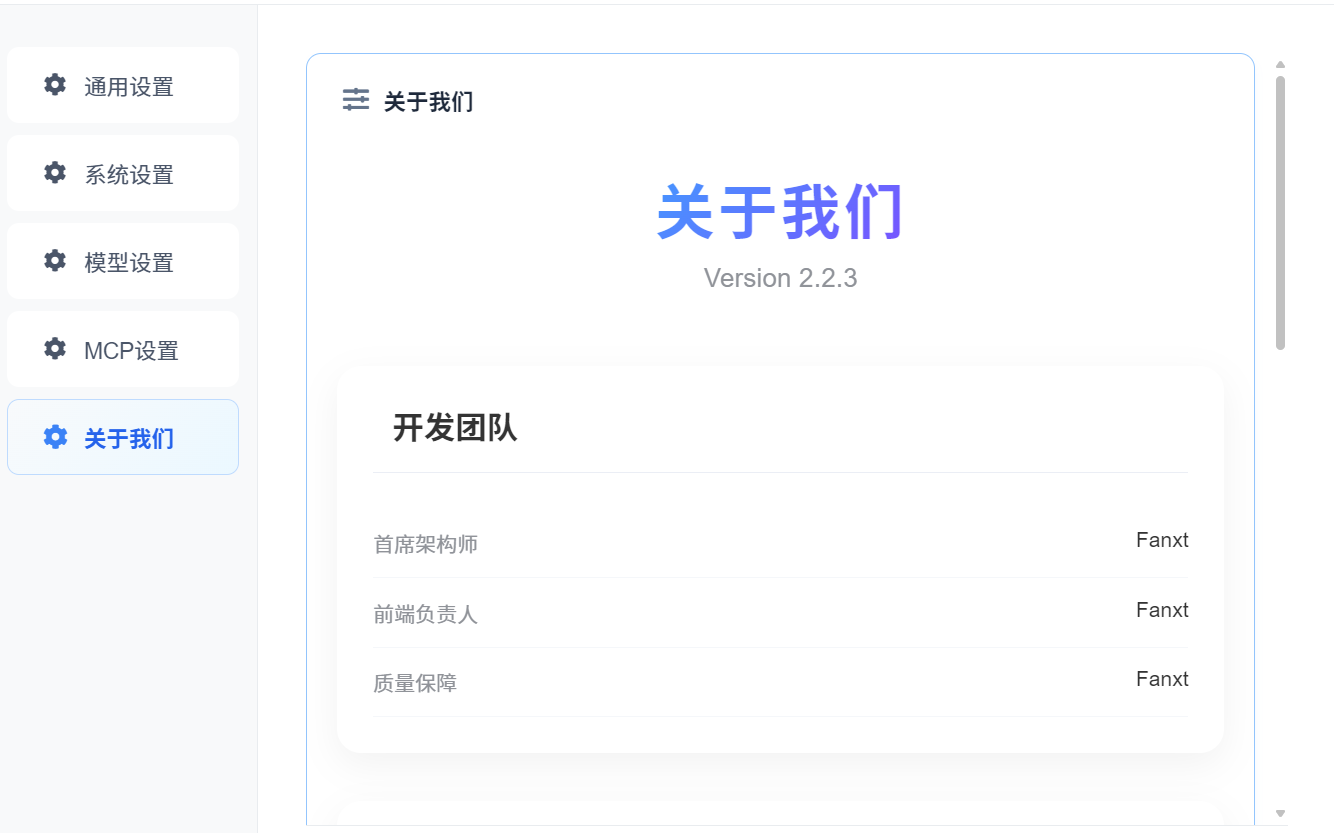
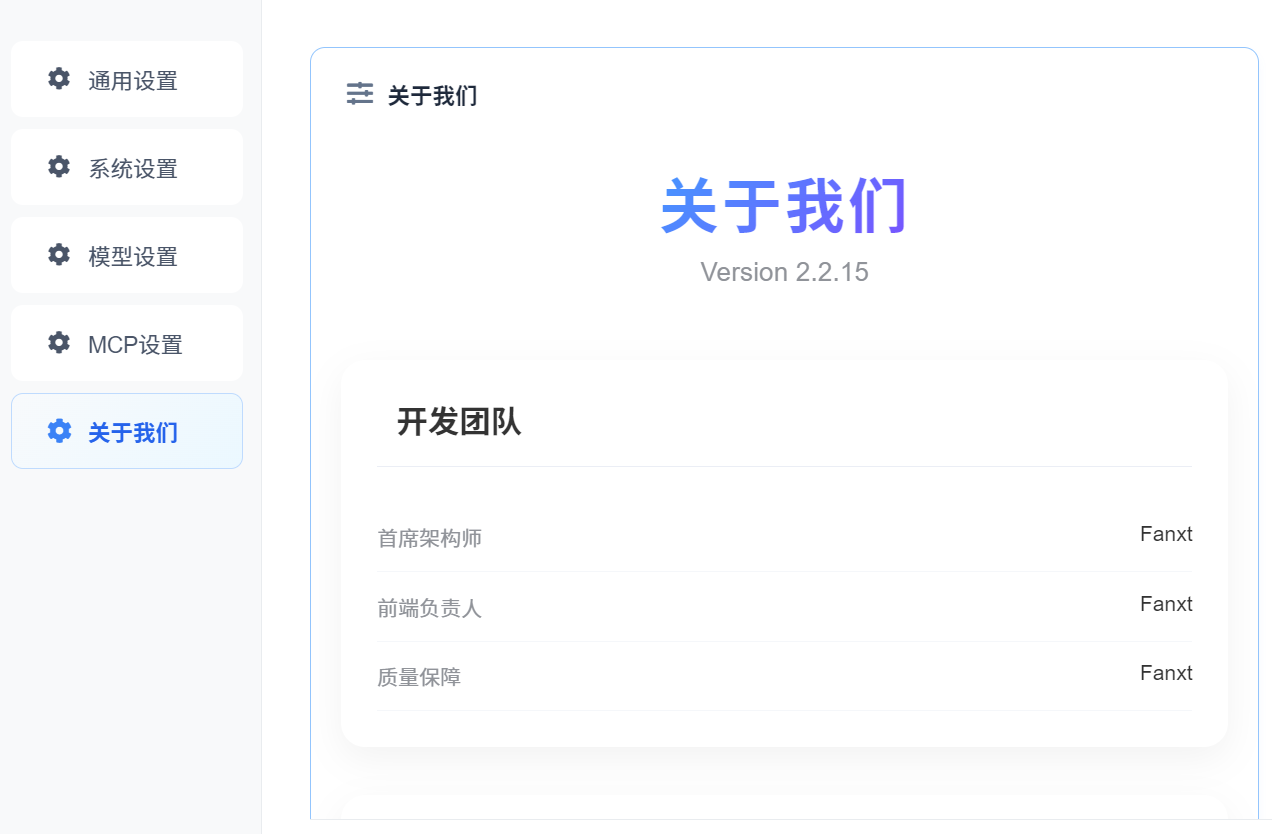
修复无法获取模型列表为空的bug，更新README.md

diff --git a/local_helper_client/src/main/resources/static/js/settings.js b/local_helper_client/src/main/resources/static/js/settings.js
@@ -238,7 +238,7 @@ document.addEventListener('DOMContentLoaded', () => {
             <div class="about-container">
                 <header class="about-header">
                     <h1 class="gradient-title">关于我们</h1>
-                    <p class="version-tag">Version 2.2.15</p>
+                    <p class="version-tag">Version 2.2.16</p>
                 </header>
                 
                 <div class="info-grid">

diff --git a/local_helper_client/src/main/java/com/ai/utils/ModelList.java b/local_helper_client/src/main/java/com/ai/utils/ModelList.java
@@ -20,7 +20,7 @@ import org.springframework.beans.factory.annotation.Value;
 import org.springframework.stereotype.Component;
 import org.springframework.web.client.RestClient;
 
-//@Component
+@Component
 public class ModelList {
 
     private static final String OLLAMA_API_URL = "http://localhost:11434/api/tags";
@@ -32,12 +32,7 @@ public class ModelList {
 
     private static RestClient restClient;
 
-    public ModelList(RestClient.Builder restClient){
-        String URL = settingsMapper.selectOne(new LambdaQueryWrapper<SettingDO>().eq(SettingDO::getItem, "Ollama服务地址")).getValue();
-        ModelList.restClient = restClient.baseUrl(URL).build();
-    }
-
-    public static List<String> getModels() {
+    public List<String> getModels() {
         List<String> models = null;
         try {
 //            models = fetchOllamaModels();
@@ -92,7 +87,10 @@ public class ModelList {
     }
 
     //获取ollama模型列表（最新方法）
-    public static List<String> listModels() {
+    public List<String> listModels() {
+        String URL = settingsMapper.selectOne(new LambdaQueryWrapper<SettingDO>().eq(SettingDO::getItem, "Ollama服务地址")).getValue();
+        restClient = RestClient.builder().baseUrl(URL).build();
+
         OllamaApi.ListModelResponse response = restClient.get().uri("/api/tags").retrieve().body(OllamaApi.ListModelResponse.class);
         if (response == null){
             System.out.println("可用模型为空");

diff --git a/local_helper_client/src/main/java/com/ai/controller/ModelMessageController.java b/local_helper_client/src/main/java/com/ai/controller/ModelMessageController.java
@@ -45,6 +45,8 @@ public class ModelMessageController {
     private ModelMessageService modelMessageService;  // 模型服务层
     @Autowired
     private AiController aiController;
+    @Autowired
+    private ModelList modelList;
 
     //获取模型名称
     @GetMapping("/getmodelname")
@@ -70,7 +72,7 @@ public class ModelMessageController {
     public String getModelList() {
         String models = null;
         try {
-            models = mapper.writeValueAsString(ModelList.getModels());
+            models = mapper.writeValueAsString(modelList.getModels());
             System.out.println("当前模型列表:"+models);
         }catch (Exception e){
             throw new RuntimeException("获取模型列表失败");

diff --git a/README.md b/README.md
@@ -1,13 +1,40 @@
-# Local_Helper
+<div align="center">
+
+# ✨Local_Helper
+
+</div>
+
 🎉欢迎下载项目！！！🎉
+<div align="center">
+
+![Github](https://img.shields.io/badge/_GitHub-blue?logo=github&labelColor=grey&link=https://github.com/fanxt0218/Local_Helper)
+![Gitee](https://img.shields.io/badge/_Gitee-blue?logo=gitee&labelColor=grey&link=https://gitee.com/fan_xt/Local_Helper)
+<br>
+<br>
+
+![license](https://img.shields.io/github/license/fanxt0218/Local_Helper?color=)
+![code_size](https://img.shields.io/github/languages/code-size/fanxt0218/Local_Helper)
+![code_size](https://img.shields.io/github/repo-size/fanxt0218/Local_Helper)
+![version](https://img.shields.io/github/v/release/fanxt0218/Local_Helper)
+![last_commit](https://img.shields.io/github/last-commit/fanxt0218/Local_Helper)
+
+<hr>
+</div>
+
 #### 介绍
 🎉支持本地大模型的可视化应用
 我们在将大模型部署到本地后，是否会因为命令行界面而感到不方便呢？💻本项目作为一个轻量级本地大模型调用框架搭建的可视化本地对话应用，
 🚀从此大家只需要拉取模型，或者将训练后的模型导入到ollama，直接使用该应用即可实现本地模型的调用，从此告别排队！
-🍰项目已经开源至gitee、github👇
-github: https://github.com/fanxt0218/Local_Helper
-如果您觉得该开源项目对您有帮助，请给作者点个star，谢谢！🌟
+🍰项目已经开源至gitee、github👇<br>
+![Github](https://img.shields.io/badge/_GitHub-blue?logo=github&labelColor=grey&link=https://gitee.com/fan_xt/Local_Helper)
+<span font-size="40px">
+https://github.com/fanxt0218/Local_Helper
+</span><br>
+如果您觉得该开源项目对您有帮助，请给该项目点个star，谢谢！🌟
 更详细的发开介绍 -->👉 https://blog.csdn.net/2402_84949062?spm=1011.2266.3001.5343  <--请访问我的主页
+
+#### 更新日志
+请关注更新日志: <span src="https://gitee.com/fan_xt/local_helper/blob/local_helper-v2.0.0/update_log.txt">Local_Helper更新日志</span>
 
 #### 软件架构◪
 Java语言基于Springboot框架进行开发，软件集成Spring AI框架，持久层框架mybatis- plus
@@ -39,6 +66,16 @@ Java语言基于Springboot框架进行开发，软件集成Spring AI框架，持
   一些特性:
     应用支持在同一个会话中频繁切换模型，虽然侧边栏中记录的是创建时的模型名称，但是在聊天过程中切换模型新的模型会继承旧模型的记忆
 
+#### 快速演示 ⚡
+<div align="center">
+
+![功能演示](local_helper_client/src/main/resources/static/imgs/local_helper使用教程1.gif)
+![功能演示](local_helper_client/src/main/resources/static/imgs/local_helper使用教程2.gif)
+
+
+</div>
+
+
 ### 注意 📍
 
 如果要使用mcp服务请先在mcp-server模块中配置相关配置
@@ -54,7 +91,12 @@ Java语言基于Springboot框架进行开发，软件集成Spring AI框架，持
 
 1.  该项目由gitee快乐哦呜所属
 2.  如若在使用过程中遇到bug，请在gitee或github提出您的建议
-3.  想要参与对项目的开发和完善，请联系我
+3.  想要参与对项目的开发和完善，请联系我，或以PR的方式贡献代码
 4.  作者学生党,望大家多多支持
 5.  开发者CSDN账号：Fanxt_Ja
-    <img alt="img.png" height="400" src="local_helper_client/src/main/resources/static/imgs/关于我们.png" width="550"/>
+<div align="center">
+
+![CSDN](https://img.shields.io/badge/_CSDN-blue?logo=csdn&labelColor=black&link=https://blog.csdn.net/2402_84949062?type=blog)
+</div>
+
+<img alt="img.png" height="400" src="local_helper_client/src/main/resources/static/imgs/关于我们.png" width="550"/>
